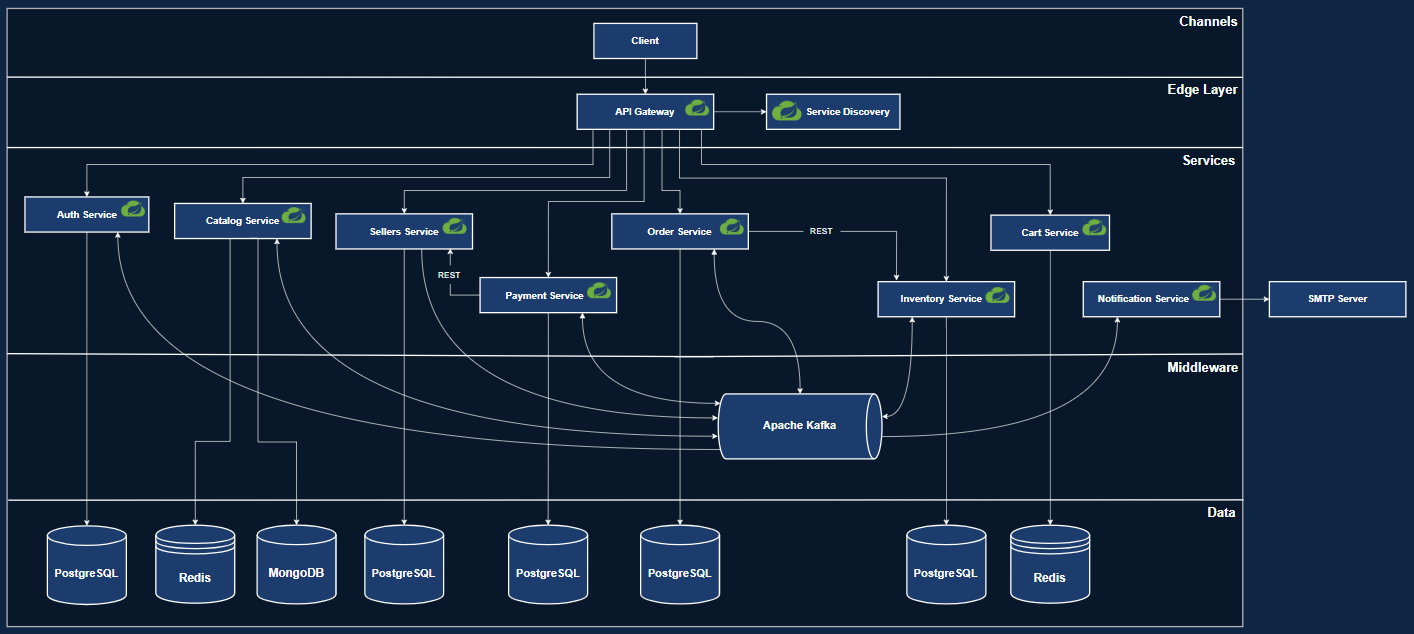
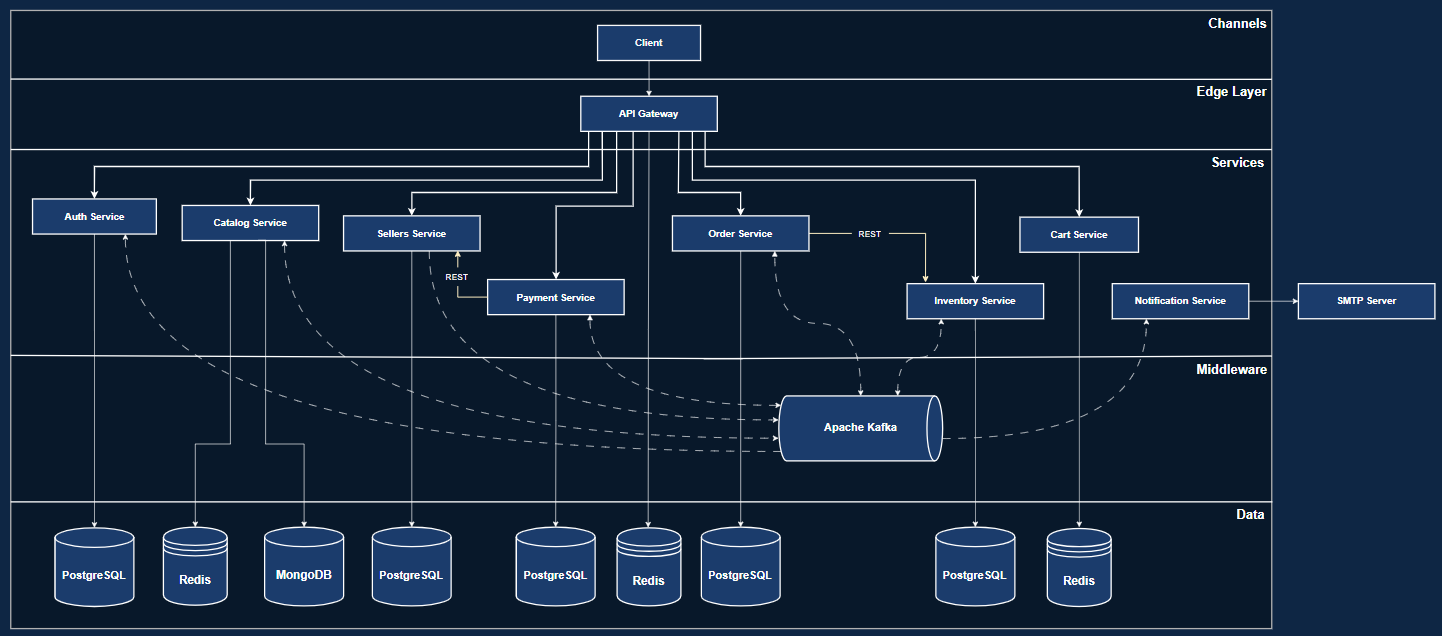
First commit

diff --git a/README.md b/README.md
@@ -10,9 +10,12 @@ A fully distributed eCommerce backend built from scratch with production-grade p
 
 The system is organized into four layers:
 
-- **Edge Layer** — API Gateway handles routing, rate limiting, CORS, and security headers. BFF (Backend for Frontend) composes data from multiple services for complex UI screens.
+- **Edge Layer** — API Gateway handles routing, rate limiting, CORS, and security headers. For screens that require data from multiple services (such as a product detail page combining catalog, inventory, and seller info), the Gateway performs parallel request aggregation internally, keeping the frontend interface simple without adding an extra service to the infrastructure.
+
 - **Services Layer** — Eight independent microservices, each owning its domain completely. No shared databases. No shared libraries.
-- **Middleware Layer** — Apache Kafka decouples asynchronous communication. Every event carries a `correlationId` and `causationId` for distributed tracing.
+
+- **Middleware Layer** — Apache Kafka decouples asynchronous communication.
+
 - **Data Layer** — Each service owns its persistence technology. MongoDB for the product catalog (flexible document model), PostgreSQL for transactional services (ACID guarantees), Redis for session-like data (cart, rate limiting).
 
 ---
@@ -30,7 +33,6 @@ The system is organized into four layers:
 | **Seller Service** | Seller profiles, bank account management | Spring MVC, PostgreSQL, Kafka |
 | **Notification Service** | Real email delivery on order events | Spring Boot, JavaMail (Gmail SMTP), Kafka |
 | **API Gateway** | Routing, rate limiting, security headers, CORS | Spring Cloud Gateway, Redis |
-| **BFF Service** | Data composition for product detail and homepage | Spring WebFlux, Resilience4j |
 
 ---
 
@@ -180,18 +182,11 @@ docker-compose up --build
 | Cart Service | 8086 |
 | Seller Service | 8082 |
 | Notification Service | 8091 |
-| BFF Service | 8092 |
 | Kafka UI | 8090 |
 
 ### 5. Authenticate
-```bash
-# Get a token
-curl -X POST http://localhost:8083/oauth2/token \
-  -H "Content-Type: application/x-www-form-urlencoded" \
-  -d "grant_type=authorization_code&..."
-```
 
-Import the Postman collection from `docs/postman_collection.json` for the complete request flow.
+Import the Postman collection from `docs/postman_collection.json` for the complete request flow including OAuth2 authorization.
 
 ---
 
